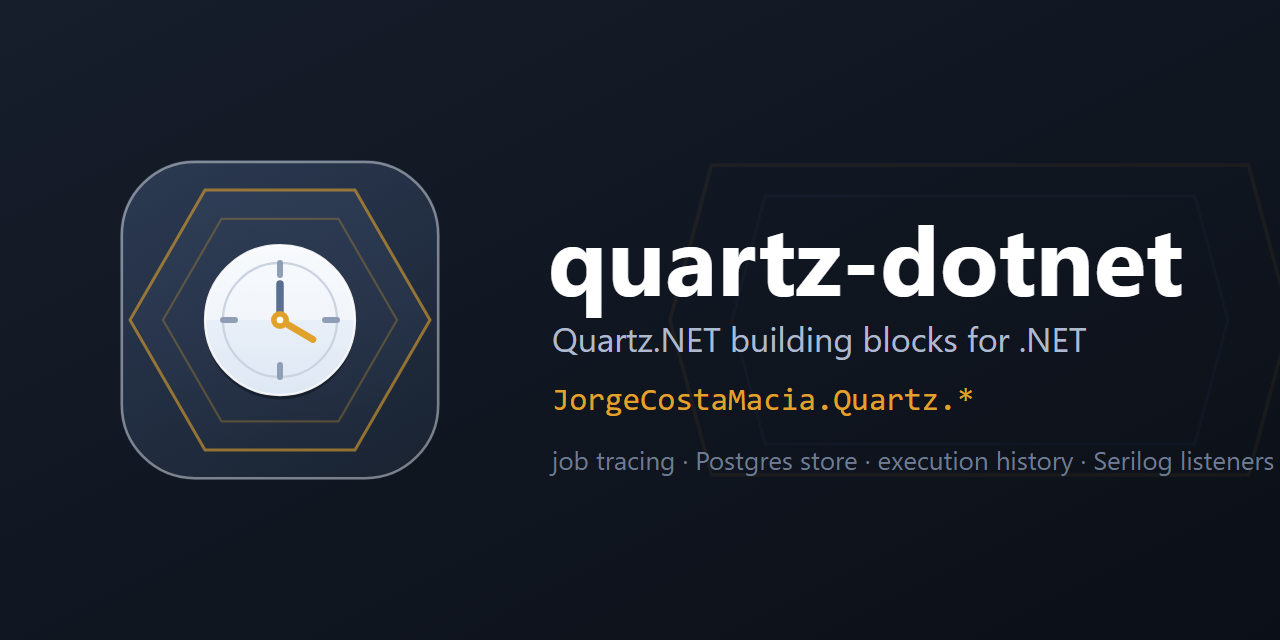
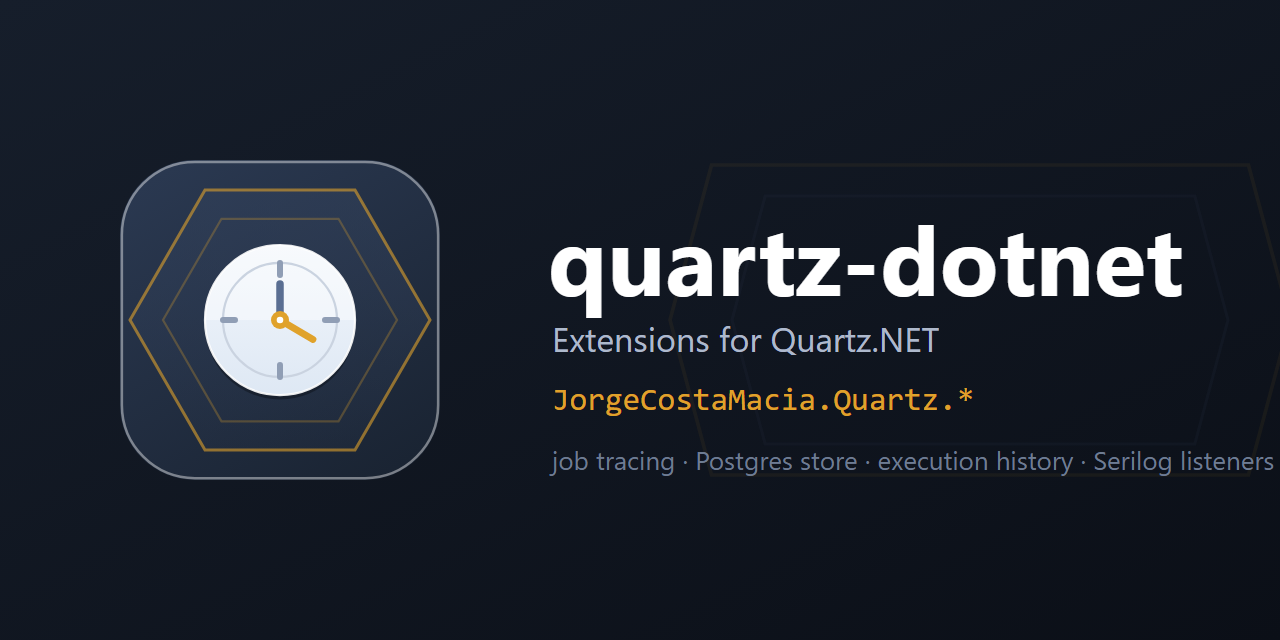
Docs: quartz-dotnet is a set of extensions for Quartz.NET, independent of the Quartz.NET project; AddSerilogContext registers the package's own listeners and wraps no framework call

Changed region(s): [[0.4375, 0.5, 0.8438, 0.5625]]

diff --git a/AGENTS.md b/AGENTS.md
@@ -1,6 +1,6 @@
 # quartz-dotnet — working in this repo
 
-Quartz.NET building blocks — job-execution trace correlation, the clustered Postgres store with its execution history and hosted-scheduler defaults, and Serilog job and trigger listeners — each scoped to a single concern and shipped independently on NuGet under `JorgeCostaMacia.Quartz.*`. Moved out of **shared-net** in 10.2.0, keeping the package ids and the version line.
+Extensions for Quartz.NET — job-execution trace correlation, the clustered Postgres store with its execution history and hosted-scheduler defaults, and Serilog job and trigger listeners — each scoped to a single concern and shipped independently on NuGet under `JorgeCostaMacia.Quartz.*`. Moved out of **shared-net** in 10.2.0, keeping the package ids and the version line. An independent project, not affiliated with Quartz.NET: the README says so, and the repo name must never read as the scheduler itself.
 
 ## Layout
 
@@ -22,6 +22,8 @@ Quartz.NET building blocks — job-execution trace correlation, the clustered Po
 ## Extend the framework's options, never replace its call
 
 A package that carries a policy publishes it as an **extension on the type the framework already hands the host** — `IQuartzBuilder.WithPostgresDefaults()`, `ExecutionHistoryOptions.WithDefaults()`, `QuartzHostedServiceOptions.WithDefaults()` — and never as an `Add…` method that wraps the framework's own. The host keeps writing `AddQuartz(…)`, so what it composes stays readable in its `ProgramBuilder`; only the policy moves here. `http-net` follows the same rule with its `ApiVersioningOptions` / `ProblemDetailsOptions` extensions, and its doc comments say so.
+
+`Quartz.Serilog`'s `AddSerilogContext()` is not such a facade: it registers the package's own two listeners and wraps no framework call — the host still writes `AddQuartz(…)` and attaches them there with `AddJobListener` / `AddTriggerListener`. It is the package's composition root, the `Add<Module>Context` of `clean-architecture-net`.
 
 ## Dependencies — Central Package Management
 

diff --git a/README.md b/README.md
@@ -4,13 +4,15 @@
 
 # quartz-dotnet
 
-> Quartz.NET building blocks for .NET — job-execution trace correlation, the clustered Postgres store with its execution history and hosted-scheduler defaults, and Serilog job and trigger listeners — each scoped to a single concern and shipped independently under `JorgeCostaMacia.Quartz.*`.
+> Extensions for [Quartz.NET](https://www.quartz-scheduler.net/) — job-execution trace correlation, the clustered Postgres store with its execution history and hosted-scheduler defaults, and Serilog job and trigger listeners — each scoped to a single concern and shipped independently under `JorgeCostaMacia.Quartz.*`.
 
 [![License](https://img.shields.io/github/license/JorgeCostaMacia/quartz-dotnet.svg)](LICENSE.txt)
 [![Main](https://github.com/JorgeCostaMacia/quartz-dotnet/actions/workflows/main.yml/badge.svg?branch=main)](https://github.com/JorgeCostaMacia/quartz-dotnet/actions/workflows/main.yml)
 [![Develop](https://github.com/JorgeCostaMacia/quartz-dotnet/actions/workflows/develop.yml/badge.svg?branch=develop)](https://github.com/JorgeCostaMacia/quartz-dotnet/actions/workflows/develop.yml)
 
 Part of the `JorgeCostaMacia.*` family, alongside [ddd-dotnet](https://github.com/JorgeCostaMacia/ddd-dotnet) (DDD building blocks), [serilog-dotnet](https://github.com/JorgeCostaMacia/serilog-dotnet) (the Serilog baseline), [bus-net](https://github.com/JorgeCostaMacia/bus-net) (messaging) and [http-net](https://github.com/JorgeCostaMacia/http-net) (ASP.NET Core). Moved out of [shared-net](https://github.com/JorgeCostaMacia/shared-net) in 10.2.0, with the same package ids.
+
+An independent project: it builds on Quartz.NET through its own extension points (extension methods on the builders and options Quartz hands the host, and its listener interfaces) and is not affiliated with the Quartz.NET project.
 
 ## Requirements
 

diff --git a/src/JorgeCostaMacia.Quartz.Serilog/README.md b/src/JorgeCostaMacia.Quartz.Serilog/README.md
@@ -43,7 +43,7 @@ Depends on [JorgeCostaMacia.Quartz](https://www.nuget.org/packages/JorgeCostaMac
 
 ## About
 
-`JorgeCostaMacia.Quartz.Serilog` is part of **[quartz-dotnet](https://github.com/JorgeCostaMacia/quartz-dotnet)** — Quartz.NET building blocks for .NET: job-execution trace correlation, the clustered Postgres store and its defaults, and Serilog job and trigger listeners, each package scoped to a single concern.
+`JorgeCostaMacia.Quartz.Serilog` is part of **[quartz-dotnet](https://github.com/JorgeCostaMacia/quartz-dotnet)** — extensions for Quartz.NET: job-execution trace correlation, the clustered Postgres store and its defaults, and Serilog job and trigger listeners, each package scoped to a single concern. An independent project, not affiliated with Quartz.NET.
 
 - **Repository:** [github.com/JorgeCostaMacia/quartz-dotnet](https://github.com/JorgeCostaMacia/quartz-dotnet)
 - **Issues & requests:** [open an issue](https://github.com/JorgeCostaMacia/quartz-dotnet/issues)

diff --git a/src/JorgeCostaMacia.Quartz/README.md b/src/JorgeCostaMacia.Quartz/README.md
@@ -76,7 +76,7 @@ Depends on [Quartz](https://www.nuget.org/packages/Quartz/).
 
 ## About
 
-`JorgeCostaMacia.Quartz` is part of **[quartz-dotnet](https://github.com/JorgeCostaMacia/quartz-dotnet)** — Quartz.NET building blocks for .NET: job-execution trace correlation, the clustered Postgres store and its defaults, and Serilog job and trigger listeners, each package scoped to a single concern.
+`JorgeCostaMacia.Quartz` is part of **[quartz-dotnet](https://github.com/JorgeCostaMacia/quartz-dotnet)** — extensions for Quartz.NET: job-execution trace correlation, the clustered Postgres store and its defaults, and Serilog job and trigger listeners, each package scoped to a single concern. An independent project, not affiliated with Quartz.NET.
 
 - **Repository:** [github.com/JorgeCostaMacia/quartz-dotnet](https://github.com/JorgeCostaMacia/quartz-dotnet)
 - **Issues & requests:** [open an issue](https://github.com/JorgeCostaMacia/quartz-dotnet/issues)
